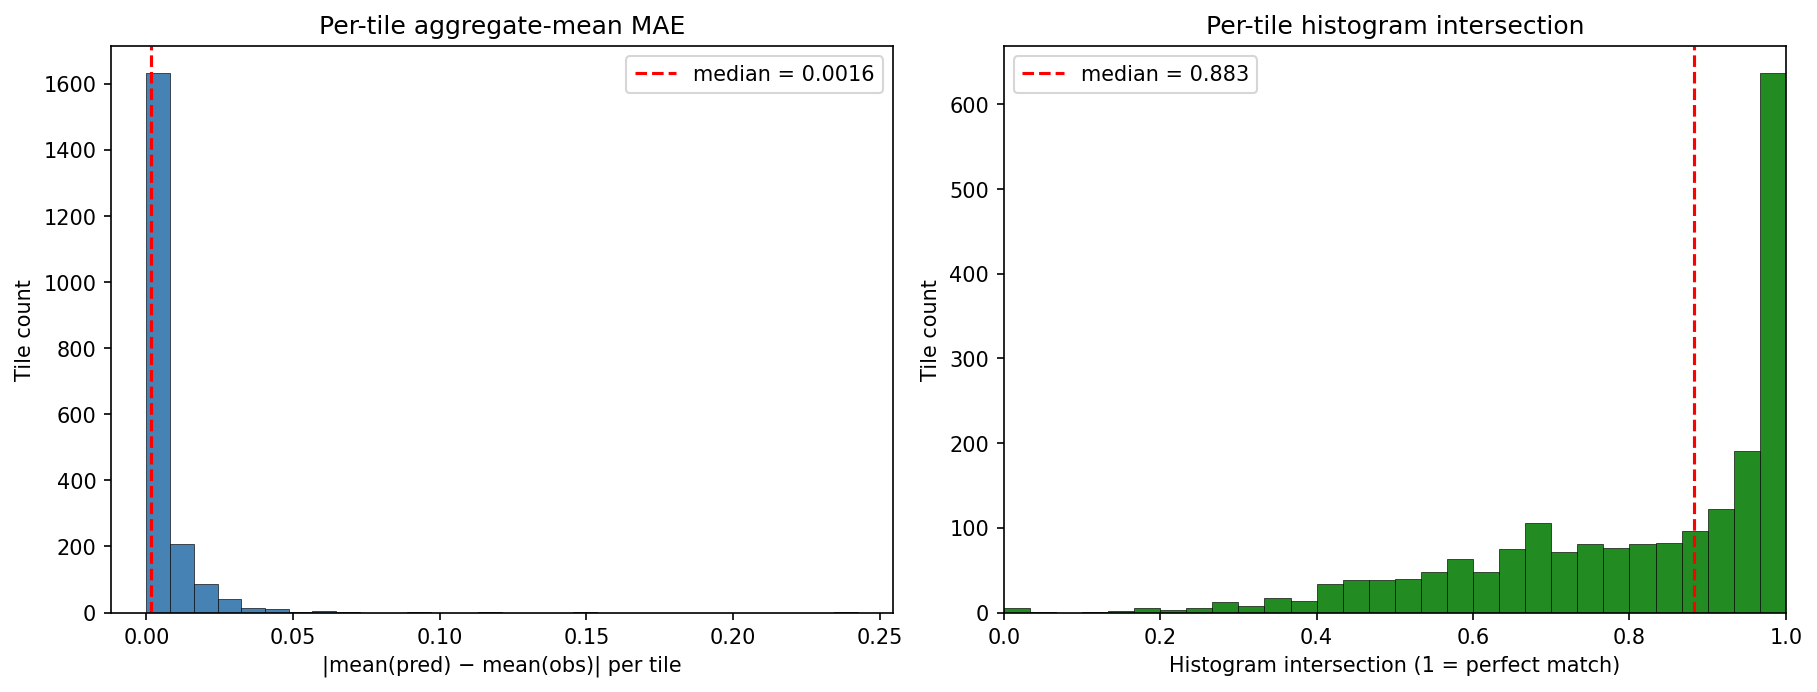
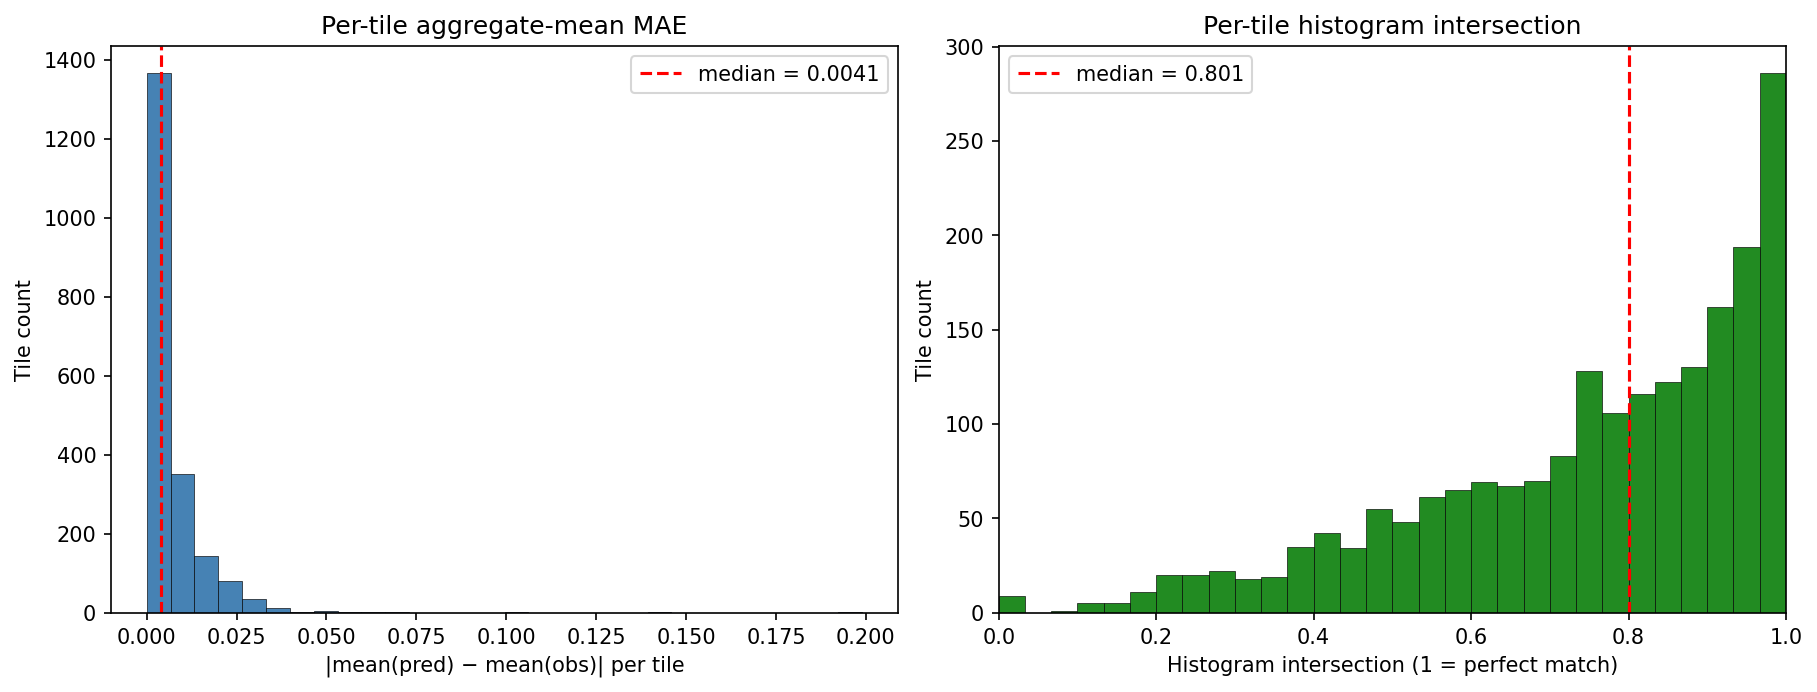
feat: per-pixel reweighting + binary pattern loss (v6)
Two new loss components targeting per-bin coverage and tile-level
spatial-pattern match (the user does not want pixel-level agreement).

- Per-pixel reweighting on v-prediction MSE: each pixel's MSE
  contribution is scaled by (|target_dhm|^alpha + eps), normalised so
  the average weight on valid pixels is 1. Direct gradient lever for
  the rare large-Δhm pixels that uniform MSE drowns out.
- Multi-scale binary pattern loss: recover x0_pred from v_pred via the
  scheduler's α/β coefficients, denormalise to raw Δhm, soft-binarise
  at thresholds (0.05, 0.4) with sigmoid (τ=0.02), avg-pool at scales
  (8, 16), MSE between predicted and observed pooled binaries. Pooling
  makes the loss insensitive to pixel-level alignment but sensitive to
  whether the right *amount* of high-change is in roughly the right
  *places* across each tile.

Both off by default; v6 enables both with α=1, weight=0.1, and keeps
v5's EMA + weighted sampling.

Eval (W&B run 91eyr33l):

                       v5         v6
  MAE median        0.0016 →   0.0041
  hist xinter med   0.883  →   0.801
  Pearson r         0.559  →   0.566
  overall coverage  0.888  →   0.937

  per-bin coverage v5 → v6:
    [-1.000, -0.005]   0.431 → 0.708   (+64 %)
    [-0.005, +0.005]   0.965 → 0.987
    [+0.005, +0.020]   0.899 → 0.974
    [+0.020, +0.100]   0.617 → 0.720
    [+0.100, +0.200]   0.000 → 0.000   (still)

Trade-off picture: the new losses widen the predictive distribution so
[…]

diff --git a/src/models/diffusion_lightning.py b/src/models/diffusion_lightning.py
@@ -60,6 +60,14 @@ class DiffusionLightningModule(pl.LightningModule):
         location_encoder_kwargs: Optional[Mapping[str, Any]] = None,
         use_ema: bool = False,
         ema_decay: float = 0.999,
+        pixel_weight_alpha: float = 0.0,
+        pixel_weight_eps: float = 0.05,
+        pattern_loss_weight: float = 0.0,
+        pattern_thresholds: Sequence[float] = (0.05, 0.4),
+        pattern_scales: Sequence[int] = (8, 16),
+        pattern_temperature: float = 0.02,
+        dhm_mean: float = 0.0,
+        dhm_std: float = 1.0,
     ):
         super().__init__()
         self.save_hyperparameters()
@@ -71,6 +79,14 @@ class DiffusionLightningModule(pl.LightningModule):
         self.ensemble_n = ensemble_n
         self.use_ema = bool(use_ema)
         self.ema_decay = float(ema_decay)
+        self.pixel_weight_alpha = float(pixel_weight_alpha)
+        self.pixel_weight_eps = float(pixel_weight_eps)
+        self.pattern_loss_weight = float(pattern_loss_weight)
+        self.pattern_thresholds = tuple(float(t) for t in pattern_thresholds)
+        self.pattern_scales = tuple(int(s) for s in pattern_scales)
+        self.pattern_temperature = float(pattern_temperature)
+        self.dhm_mean = float(dhm_mean)
+        self.dhm_std = float(dhm_std)
 
         loc = _maybe_build_location_encoder(location_encoder_kwargs)
         if loc is None:
@@ -141,6 +157,64 @@ class DiffusionLightningModule(pl.LightningModule):
             batch["hm_t_normalized"],
         )
 
+    def _v_loss(self, v_pred, v_target, valid, target_dhm):
+        """Per-pixel-reweighted v-prediction MSE.
+
+        With pixel_weight_alpha > 0, each pixel's MSE contribution is scaled
+        by (|target_dhm|^alpha + eps), normalised so the average weight over
+        valid pixels is 1. This concentrates gradient on the rare large-Δhm
+        pixels that the uniform MSE drowns out.
+        """
+        valid_f = valid.float()
+        sq = (v_pred - v_target).pow(2)
+        if self.pixel_weight_alpha <= 0:
+            denom = valid_f.sum().clamp(min=1.0)
+            return (sq * valid_f).sum() / denom
+        w = target_dhm.abs().pow(self.pixel_weight_alpha) + self.pixel_weight_eps
+        # Normalise per-batch so the *mean* weight on valid pixels is 1.
+        w_sum = (w * valid_f).sum()
+        v_sum = valid_f.sum().clamp(min=1.0)
+        w_norm = w * (v_sum / w_sum.clamp(min=1e-8))
+        denom = valid_f.sum().clamp(min=1.0)
+        return (sq * w_norm * valid_f).sum() / denom
+
+    def _x0_pred_from_v(self, noisy, v_pred, t):
+        """Recover predicted clean x_0 from v_pred under v-prediction parametrisation."""
+        alphas = self.train_scheduler.alphas_cumprod.to(t.device)[t]  # [B]
+        alpha_sqrt = alphas.sqrt().view(-1, 1, 1, 1)
+        sigma_sqrt = (1.0 - alphas).clamp(min=0).sqrt().view(-1, 1, 1, 1)
+        return alpha_sqrt * noisy - sigma_sqrt * v_pred
+
+    def _pattern_loss(self, x0_pred, target_dhm, valid):
+        """Multi-scale binary-pattern matching loss.
+
+        Soft-binarises predicted/observed Δhm at each threshold (in raw units),
+        then compares average-pooled binary maps at multiple scales. Pooling
+        makes this insensitive to pixel-level alignment; the model has to put
+        the right *amount* of high-change in roughly the right *places* within
+        each tile.
+        """
+        if self.pattern_loss_weight <= 0 or not self.pattern_thresholds:
+            return torch.zeros((), device=x0_pred.device)
+        # Denormalise to raw Δhm space so thresholds are meaningful.
+        x0_raw = x0_pred * self.dhm_std + self.dhm_mean
+        target_raw = target_dhm * self.dhm_std + self.dhm_mean
+        valid_f = valid.float()
+        terms = []
+        for T in self.pattern_thresholds:
+            soft = torch.sigmoid((x0_raw - T) / self.pattern_temperature) * valid_f
+            hard = (target_raw > T).float() * valid_f
+            for s in self.pattern_scales:
+                # Skip scales that don't fit
+                if soft.shape[-1] < s or soft.shape[-2] < s:
+                    continue
+                p = F.avg_pool2d(soft, s, s)
+                o = F.avg_pool2d(hard, s, s)
+                terms.append(F.mse_loss(p, o))
+        if not terms:
+            return torch.zeros((), device=x0_pred.device)
+        return torch.stack(terms).mean()
+
     def _denoising_step(
         self,
         batch: Mapping[str, Any],
@@ -158,13 +232,19 @@ class DiffusionLightningModule(pl.LightningModule):
         v_target = self.train_scheduler.get_velocity(x_0, noise, t)
         v_pred = self.unet(noisy, cond, t)
 
-        if valid.any():
-            loss = F.mse_loss(v_pred[valid.expand_as(v_pred)], v_target[valid.expand_as(v_target)])
-        else:
-            loss = F.mse_loss(v_pred, v_target)
+        v_loss = self._v_loss(v_pred, v_target, valid, x_0)
 
-        self.log(f"{log_prefix}/loss", loss, prog_bar=True, on_step=True, on_epoch=True)
-        return loss
+        if self.pattern_loss_weight > 0:
+            x0_pred = self._x0_pred_from_v(noisy, v_pred, t)
+            p_loss = self._pattern_loss(x0_pred, x_0, valid)
+            total_loss = v_loss + self.pattern_loss_weight * p_loss
+            self.log(f"{log_prefix}/v_loss", v_loss, on_step=True, on_epoch=True)
+            self.log(f"{log_prefix}/pattern_loss", p_loss, on_step=True, on_epoch=True)
+        else:
+            total_loss = v_loss
+
+        self.log(f"{log_prefix}/loss", total_loss, prog_bar=True, on_step=True, on_epoch=True)
+        return total_loss
 
     def training_step(self, batch, batch_idx):
         return self._denoising_step(batch, "train")

diff --git a/scripts/train_diffusion.py b/scripts/train_diffusion.py
@@ -77,6 +77,18 @@ def parse_args():
                    help="Sample chips proportional to (max |Δhm|)^alpha to oversample "
                         "rare high-change cases.")
     p.add_argument("--weight_alpha", type=float, default=1.0)
+    p.add_argument("--pixel_weight_alpha", type=float, default=0.0,
+                   help="Per-pixel reweighting on v-prediction MSE: weight ∝ (|Δhm|^α + ε). "
+                        "0 = uniform; 1 = linear in |Δhm|. Concentrates gradient on rare pixels.")
+    p.add_argument("--pixel_weight_eps", type=float, default=0.05)
+    p.add_argument("--pattern_loss_weight", type=float, default=0.0,
+                   help="Weight for the multi-scale binary-pattern matching loss. 0 = off.")
+    p.add_argument("--pattern_thresholds", type=float, nargs="+", default=[0.05, 0.4],
+                   help="Thresholds (raw Δhm space) for soft-binarising in the pattern loss.")
+    p.add_argument("--pattern_scales", type=int, nargs="+", default=[8, 16],
+                   help="Average-pool kernel sizes for tile-pattern matching.")
+    p.add_argument("--pattern_temperature", type=float, default=0.02,
+                   help="Sigmoid temperature for soft binarisation.")
 
     # Location encoder
     p.add_argument("--use_location_encoder", action="store_true", default=True)
@@ -161,6 +173,7 @@ def main():
                          optimizer=dict(lr=1e-4, wd=1e-3)),
         )
 
+    train_ds = train_loader.dataset
     module = DiffusionLightningModule(
         cond_channels=cond_channels,
         sample_size=args.chip_size,
@@ -175,6 +188,14 @@ def main():
         location_encoder_kwargs=locenc_kwargs,
         use_ema=args.use_ema,
         ema_decay=args.ema_decay,
+        pixel_weight_alpha=args.pixel_weight_alpha,
+        pixel_weight_eps=args.pixel_weight_eps,
+        pattern_loss_weight=args.pattern_loss_weight,
+        pattern_thresholds=tuple(args.pattern_thresholds),
+        pattern_scales=tuple(args.pattern_scales),
+        pattern_temperature=args.pattern_temperature,
+        dhm_mean=float(train_ds.dhm_mean),
+        dhm_std=float(train_ds.dhm_std),
     )
     n_params = sum(p.numel() for p in module.parameters())
     print(f"  module param count: {n_params/1e6:.1f}M")

diff --git a/docs/diffusion_v1_results.md b/docs/diffusion_v1_results.md
@@ -7,11 +7,11 @@
 - Aggregate-tile size: **16×16** pixels (10 km blocks).
 - Histogram bins (rarity-weighted, matches baseline `histogram_loss.py`):
   `[-1.0, -0.005, 0.005, 0.02, 0.1, 0.2, 0.4, 0.6, 1.0]`.
-- W&B run: [glennwithtwons/spatio-temporal-diffusion/fpbrzkno](https://wandb.ai/glennwithtwons/spatio-temporal-diffusion/fpbrzkno)
+- W&B run: [glennwithtwons/spatio-temporal-diffusion/91eyr33l](https://wandb.ai/glennwithtwons/spatio-temporal-diffusion/91eyr33l)
 
 ## Model & checkpoint
 
-- Checkpoint: `/Users/glen.moncrieff/python/spatio_temporal/spatio-temporal-diffusion/fpbrzkno/checkpoints/dhm-diffusion-epoch33-valloss0.1414.ckpt`
+- Checkpoint: `/Users/glen.moncrieff/python/spatio_temporal/spatio-temporal-diffusion/91eyr33l/checkpoints/dhm-diffusion-epoch33-valloss0.4230.ckpt`
 - Stopping epoch: 33 (global step 2176)
 - Architecture: `ConditionalDiffusionUNet` (`diffusers.UNet2DModel`)
   - sample_size = 64
@@ -32,13 +32,13 @@
 | Metric | Value |
 |---|---|
 | Tiles with valid coverage | 2,003 of 7,150 |
-| Tile-mean MAE (median) | **0.0016** |
-| Tile-mean MAE (mean) | 0.0052 |
-| Tile-mean MAE (95th %ile) | 0.0208 |
-| Histogram intersection (median) | **0.883** |
-| Histogram intersection (mean) | 0.810 |
-| Pearson r (predicted vs. observed tile-mean Δhm) | 0.559 |
-| Coverage rate (q025 ≤ obs ≤ q975), all bins | 0.888 (target ≈ 0.95) |
+| Tile-mean MAE (median) | **0.0041** |
+| Tile-mean MAE (mean) | 0.0071 |
+| Tile-mean MAE (95th %ile) | 0.0227 |
+| Histogram intersection (median) | **0.801** |
+| Histogram intersection (mean) | 0.749 |
+| Pearson r (predicted vs. observed tile-mean Δhm) | 0.566 |
+| Coverage rate (q025 ≤ obs ≤ q975), all bins | 0.937 (target ≈ 0.95) |
 
 ### Coverage stratified by Δhm change bin
 
@@ -49,10 +49,10 @@ ones where the model has to express genuine uncertainty.
 
 | Δhm bin | n pixels | Coverage |
 |---|---:|---:|
-| `[ -1.000, -0.005]` | 26,031 | 0.431 |
-| `[ -0.005, +0.005]` | 345,050 | 0.965 |
-| `[ +0.005, +0.020]` | 51,561 | 0.899 |
-| `[ +0.020, +0.100]` | 40,825 | 0.617 |
+| `[ -1.000, -0.005]` | 26,031 | 0.708 |
+| `[ -0.005, +0.005]` | 345,050 | 0.987 |
+| `[ +0.005, +0.020]` | 51,561 | 0.974 |
+| `[ +0.020, +0.100]` | 40,825 | 0.720 |
 | `[ +0.100, +0.200]` | 4,020 | 0.000 |
 | `[ +0.200, +0.400]` | 525 | 0.000 |
 | `[ +0.400, +0.600]` | 19 | 0.000 |
